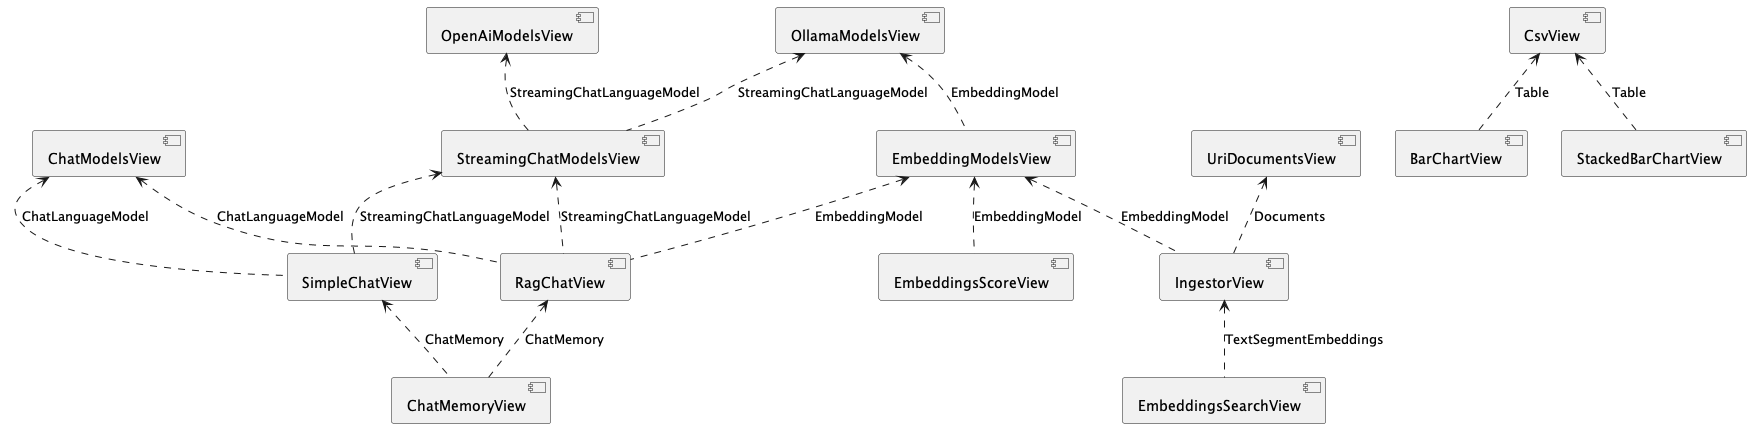
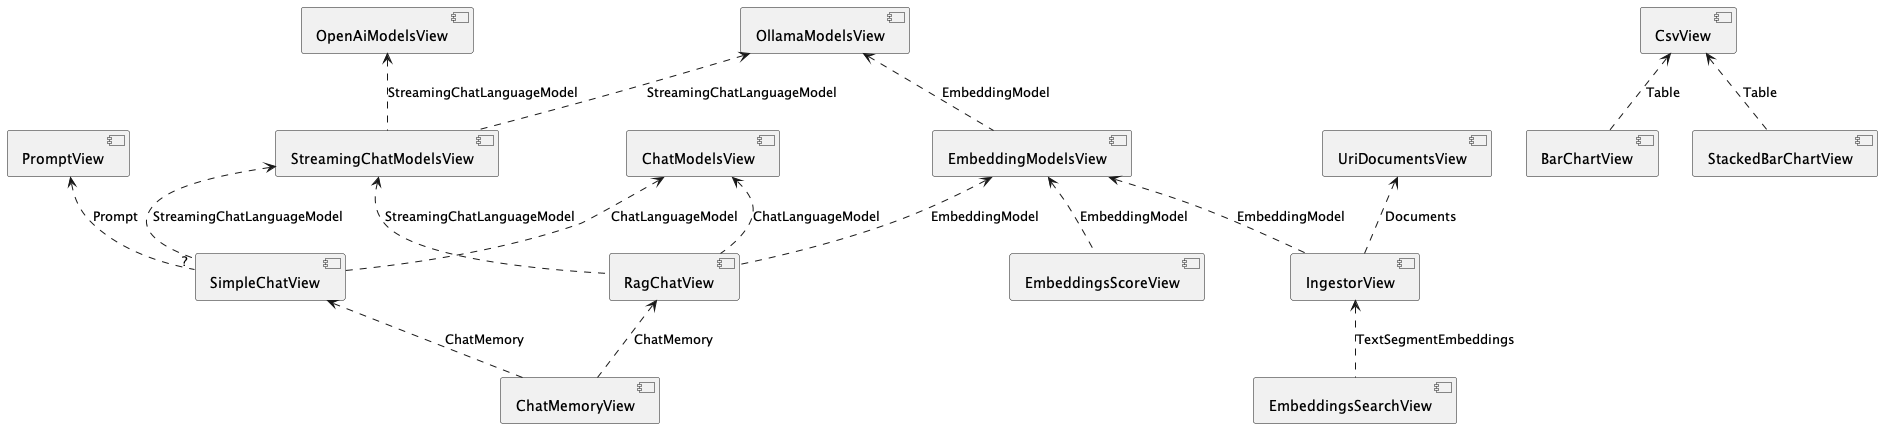
Updated with prompt view

diff --git a/app/src/main/resources/markdown/views/views.md b/app/src/main/resources/markdown/views/views.md
@@ -20,6 +20,8 @@ Here are all the available views:
 
 * [Simple chat view](no.kantega.llm.fx.SimpleChatView.md) - chat with a (streaming) chat model
 
+* [Prompt view](no.kantega.llm.fx.PromptView.md) - try out various task-specific prompts (templates)
+
 * [Chat memory view](no.kantega.llm.fx.ChatMemoryView.md) - shows the messages in a chat memory
 
 * [Embeddings score view](no.kantega.llm.fx.EmbeddingsScoreView.md) - compute and compare (the similarity of) embeddings
